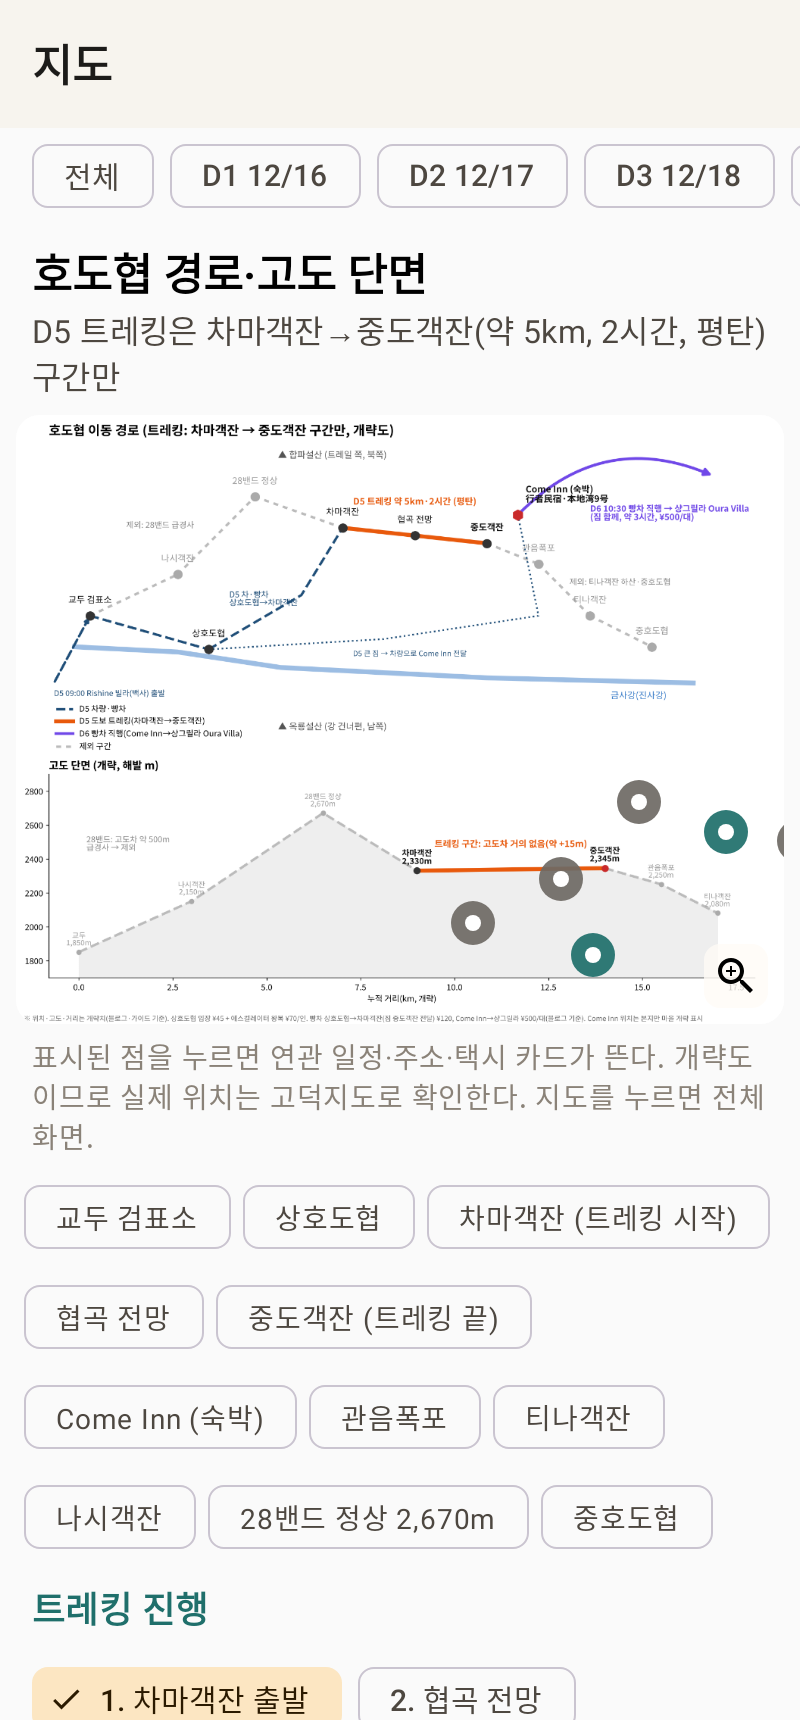
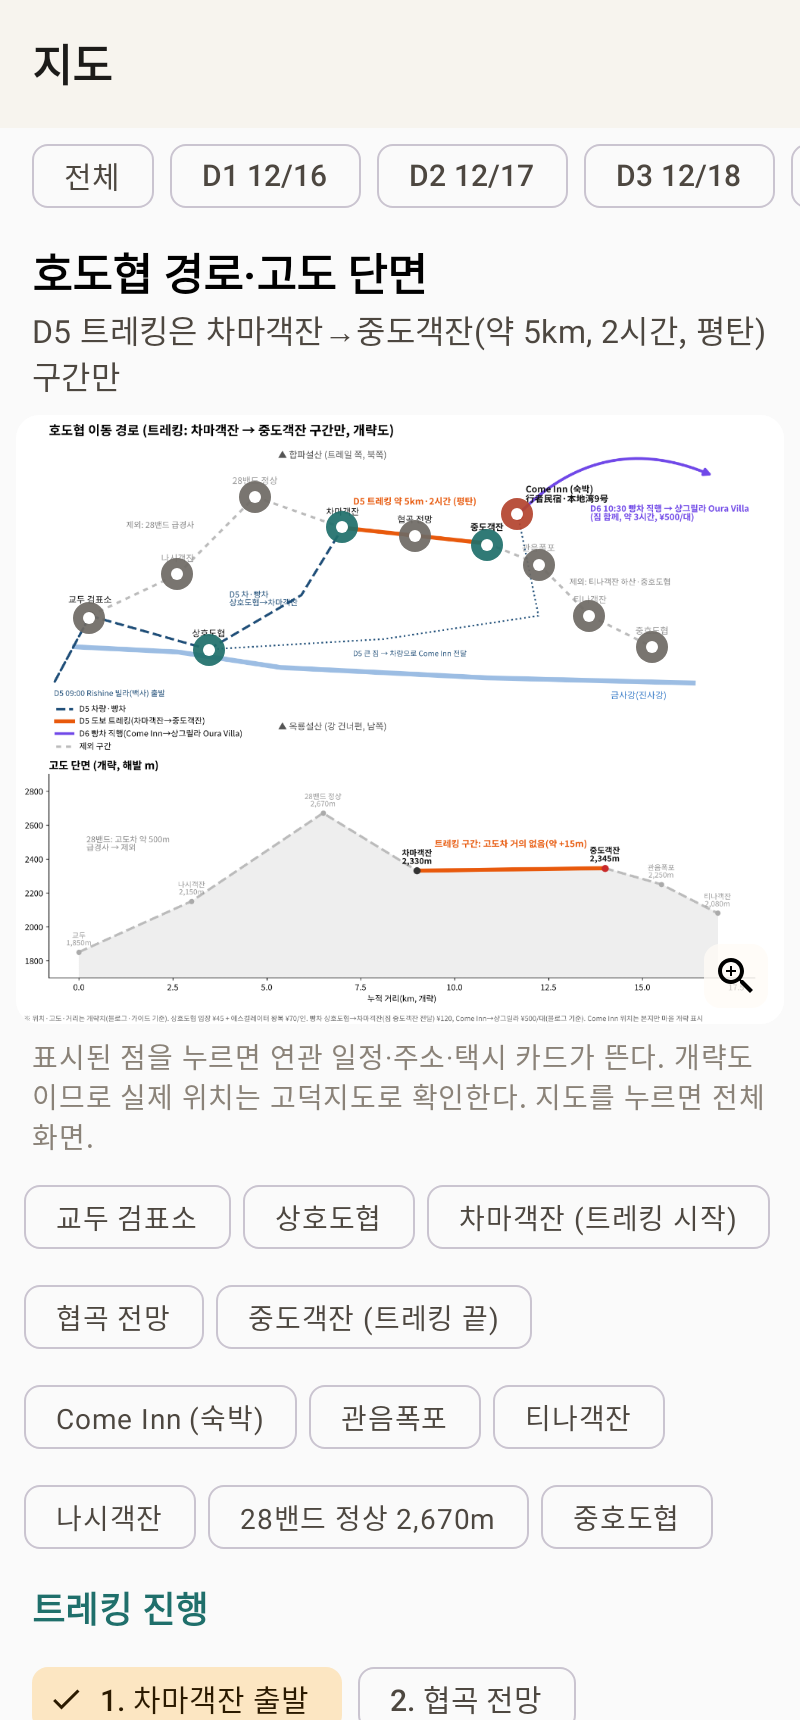
지도 마커 좌상단 기준 배치로 수정, 크기 축소
Claude-Session: https://claude.ai/code/session_01RqJ3Se7kzhbz5fxXJgdegj

diff --git a/android/app/src/main/java/kr/koasis/travelyunnan/ui/map/MapScreens.kt b/android/app/src/main/java/kr/koasis/travelyunnan/ui/map/MapScreens.kt
@@ -29,13 +29,12 @@ import androidx.compose.ui.input.pointer.pointerInput
 import androidx.compose.ui.layout.ContentScale
 import androidx.compose.ui.layout.onSizeChanged
 import androidx.compose.ui.platform.LocalContext
+import androidx.compose.ui.platform.LocalDensity
 import androidx.compose.ui.text.font.FontWeight
 import androidx.compose.ui.unit.IntSize
 import androidx.compose.ui.unit.sp
 import androidx.compose.ui.text.font.FontWeight as TextWeight
-import androidx.compose.ui.layout.onGloballyPositioned
 import androidx.compose.ui.unit.IntOffset
-import androidx.compose.ui.layout.layout
 import androidx.compose.foundation.layout.offset
 import kotlin.math.roundToInt
 import androidx.compose.ui.unit.dp
@@ -254,20 +253,19 @@ fun MapViewScreen(data: TripData, id: String) {
 }
 
 
-/** 지도 위 마커: 숙소 빨강, 식당 주황, 장소 청록, 기타 회색 */
+/** 지도 위 마커: 숙소 빨강, 식당 주황, 장소 청록, 기타 회색. 부모 Box 의 좌상단 기준 픽셀 위치에 놓는다. */
 @Composable
-private fun HotspotMarker(h: Hotspot, cx: Int, cy: Int, small: Boolean = false, onClick: () -> Unit) {
+private fun BoxScope.HotspotMarker(h: Hotspot, cx: Int, cy: Int, small: Boolean = false, onClick: () -> Unit) {
     val color = when (h.type) { "lodging" -> Color(0xFFB4442E); "meal" -> Color(0xFFE09A2B); "place" -> Color(0xFF1F6F6B); else -> Color(0xFF6E6A64) }
-    val d = if (small) 18.dp else 22.dp
+    val d = if (small) 14.dp else 16.dp
+    val half = with(LocalDensity.current) { (d / 2).roundToPx() }
     Box(
-        Modifier.layout { m, c ->
-            val p = m.measure(c)
-            layout(0, 0) { p.place(cx - p.width / 2, cy - p.height / 2) }
-        }.size(d).background(color.copy(alpha = 0.92f), androidx.compose.foundation.shape.CircleShape)
+        Modifier.align(Alignment.TopStart).offset { IntOffset(cx - half, cy - half) }
+            .size(d).background(color.copy(alpha = 0.92f), androidx.compose.foundation.shape.CircleShape)
             .clickable(onClick = onClick),
         contentAlignment = Alignment.Center,
     ) {
-        Box(Modifier.size(if (small) 6.dp else 8.dp).background(Color.White, androidx.compose.foundation.shape.CircleShape))
+        Box(Modifier.size(if (small) 5.dp else 6.dp).background(Color.White, androidx.compose.foundation.shape.CircleShape))
     }
 }
 
